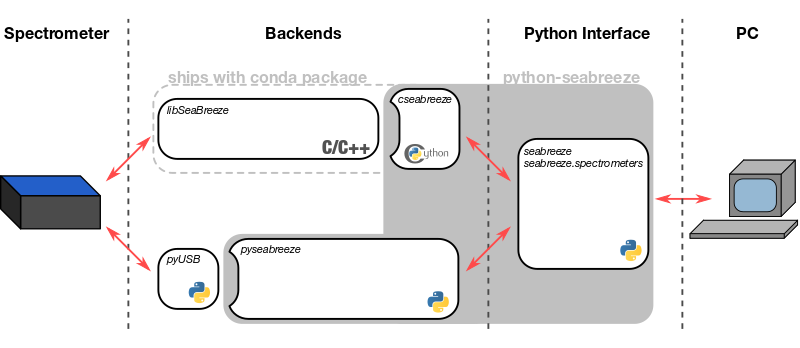
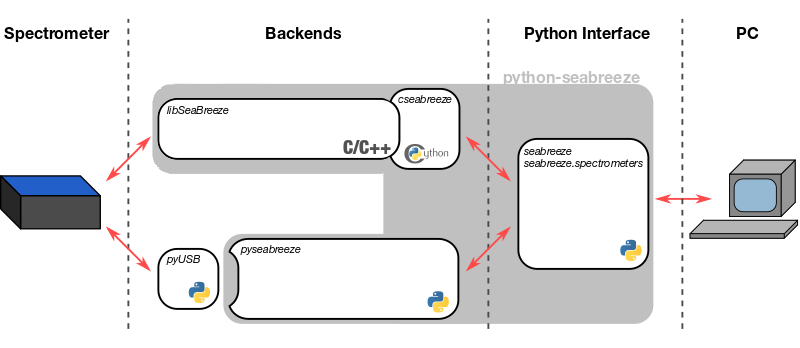
docs: update diagram and readme

Changed region(s): [[0.1875, 0.2011, 0.5, 0.5172]]

diff --git a/README.md b/README.md
@@ -2,12 +2,26 @@
 
 this branch is work in progress for release v1.0 of python-seabreeze
 
-Remaining TODOs:
+**Checklist for 1.0.0**
+
+- [x] rework trigger checks [pyseabreeze]
+- [x] hide usbcomm functions on SeabreezeDevice [pyseabreeze]
+- [x] split communication in transport+protocol [pyseabreeze]
 - [x] ensure all wheels are build
 - [x] build docs on rtd
-- [ ] provide compat module for old seabreeze
-- [ ] add tests
+- [x] provide compat module for old seabreeze
+- [x] refactor public api
+- [ ] document backend apis
+- [x] update index page diagram
+- [x] add tests
 - [ ] show how to add new spectrometer in contributing guide
-- [ ] publish to pypi and conda-forge
 - [ ] add CHANGELOG.md
+- [ ] revert ./README.md
+- [ ] publish to pypi
+- [ ] publish to poehlmann conda channel
+
+**Checklist for 2.0.0**
+
+- [ ] make cython backend an optional feature via extras_require
+- [ ] publish to conda-forge
 
